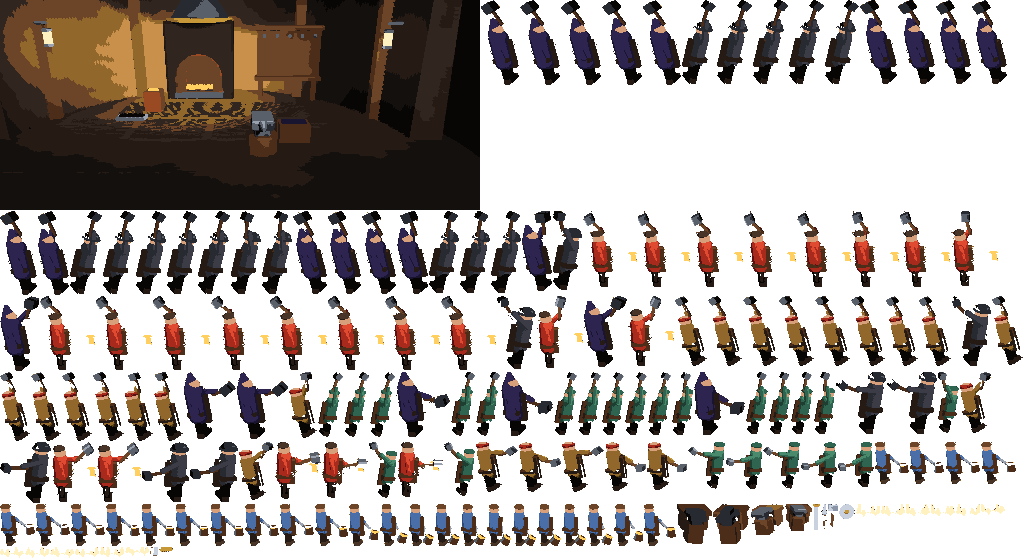
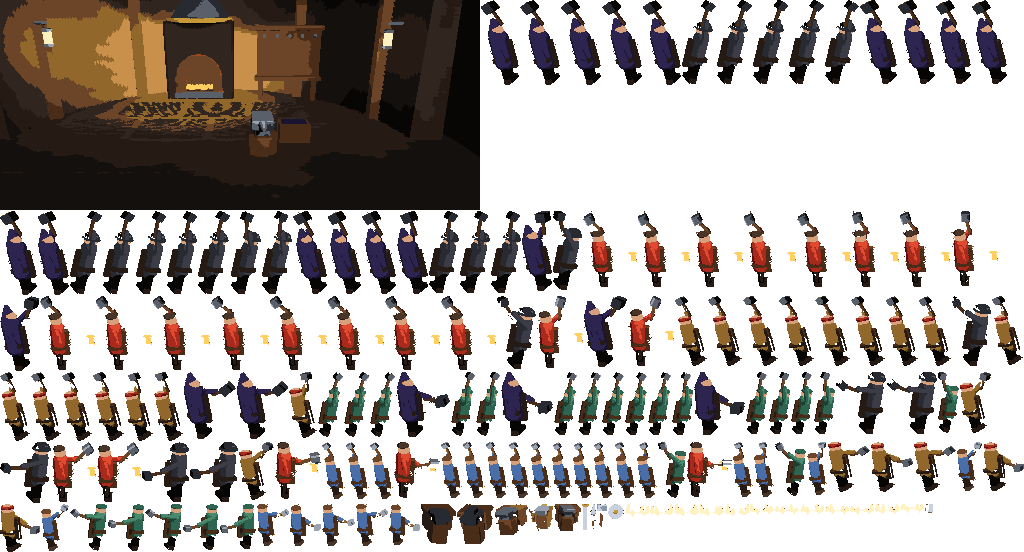
Remove ingots and the Smelter; add the Swordsmith at his spot

Changed region(s): [[0.0, 0.3696, 1.0, 1.0], [0.0938, 0.1232, 0.3125, 0.2464]]

diff --git a/index.html b/index.html
@@ -167,14 +167,14 @@ const HEROES=[
      Forging is Blacksmith Battles' minigame, and it is the hook: pick a weapon and a blank size in Folds, then strike while
      the marker crosses the glow (Perfect 2 stars, Good 1, from the 5th Perfect in a row 3, 4, 5...). A miss ends the blank
      and costs a third of your stars; Quench banks the score early. Stars set the grade. Forge heroes never forge on their
-     own: they make it easier (Blacksmith), cheaper (Smelter) or better (the smiths). */
+     own: they make it easier (the Blacksmith) or better (the smiths). There are no ingots: blanks are paid in ore. */
   {k:'smith',n:'Blacksmith',base:3000,place:'forge',noMs:true,
     what:()=>`You. Blanks hold up to ${maxFolds()} Folds (${MATCAP} in Copper). Glow ${zoneW()}% wide, marker at ${Math.round(smithSlow()*100)}% speed`,
     ms:lv=>smithMs(lv)},
-  {k:'smelter',n:'Smelter',base:15000,place:'forge',
-    what:()=>`Pours ${fmtN(ingotRate()*60)} ingots a minute. A blank uses ingots (${INGOT} ore each) before ore`,
-    ms:lv=>`Level ${nextMs(lv)}: ${['a bigger crucible','a second mould','a pouring channel','a river of bronze'][Math.min(3,msCount(lv))]}, double ingots`,
-    req:()=>lv('smith')>=5&&S.forged>=5, hint:'Blanks eat a lot of ore. Forge 5 weapons and get the Blacksmith to level 5.'},
+  {k:'swordsmith',n:'Swordsmith',base:15000,place:'forge',noMs:true,w:'sword',
+    what:()=>`Every Sword you forge gets +${3*lv('swordsmith')}% Might and Haste, locked in when it's forged`,
+    ms:lv=>`Next level: +3% more`,
+    req:()=>lv('smith')>=5, hint:'The Blacksmith learns Swords at level 5.'},
   {k:'axesmith',n:'Axesmith',base:1e5,place:'forge',noMs:true,w:'axe',
     what:()=>`Every Axe you forge gets +${3*lv('axesmith')}% Might and Vigor, locked in when it's forged`,
     ms:lv=>`Next level: +3% more`,
@@ -194,12 +194,12 @@ const HEROES=[
 ];
 const place=h=>h.place||'mine';
 const WEAP={sword:{n:'Sword',p:'Swords'},axe:{n:'Axe',p:'Axes'},spear:{n:'Spear',p:'Spears'},shield:{n:'Shield',p:'Shields'},hammer:{n:'Warhammer',p:'Warhammers'}};
-// stations: the Blacksmith level that teaches the weapon (Jonathan: Axes 25, Spears 50), its smith, and the art layer
-const STATIONS=[{lv:25,k:'axesmith',w:'axe'},{lv:50,k:'spearwright',w:'spear'},{lv:75,k:'shieldwright',w:'shield'},{lv:100,k:'hammersmith',w:'hammer'}];
+// stations: the Blacksmith level that teaches the weapon (Jonathan: Swords 5, Axes 25, Spears 50), its smith, and the art layer
+const STATIONS=[{lv:5,k:'swordsmith',w:'sword'},{lv:25,k:'axesmith',w:'axe'},{lv:50,k:'spearwright',w:'spear'},{lv:75,k:'shieldwright',w:'shield'},{lv:100,k:'hammersmith',w:'hammer'}];
 const SWORD_LV=5; // Jonathan: you can't forge anything until the Blacksmith learns Swords at level 5
-const known=()=>[...(lv('smith')>=SWORD_LV?['sword']:[]),...STATIONS.filter(st=>lv('smith')>=st.lv).map(st=>st.w)];
+const known=()=>STATIONS.filter(st=>lv('smith')>=st.lv).map(st=>st.w);
 // Folds (Jonathan's name for slams): blanks start at 3, +1 every 5 Blacksmith levels, no ceiling; Copper holds 10
-const MATCAP=10,BLANK=150,INGOT=50;
+const MATCAP=10,BLANK=150;
 const maxFolds=()=>3+Math.floor(lv('smith')/5);
 const foldLimit=()=>Math.min(MATCAP,maxFolds());
 const blankCost=n=>BLANK*Math.pow(2,n-3); // a 3-Fold Copper blank is 150 ore; every Fold doubles it (as in Blacksmith Battles)
@@ -207,8 +207,7 @@ const blankCost=n=>BLANK*Math.pow(2,n-3); // a 3-Fold Copper blank is 150 ore; e
 const SMITH_GLOW=[5,20,40],SMITH_SLOW=[10,30,50];
 const zoneW=()=>14+5*SMITH_GLOW.filter(n=>lv('smith')>=n).length;
 const smithSlow=()=>1-0.07*SMITH_SLOW.filter(n=>lv('smith')>=n).length;
-const ingotRate=()=>lv('smelter')?0.05*lv('smelter')*mult('smelter'):0; // ingots a second
-function smithMs(L){const ev=[];for(let l=L+1;l<=L+40&&!ev.length;l++){const st=STATIONS.find(s=>s.lv===l);if(l===SWORD_LV)ev.push('learns Swords');
+function smithMs(L){const ev=[];for(let l=L+1;l<=L+40&&!ev.length;l++){const st=STATIONS.find(s=>s.lv===l);
   if(l%5===0)ev.push(`+1 Fold`);if(SMITH_GLOW.includes(l))ev.push('a wider glow');if(SMITH_SLOW.includes(l))ev.push('a slower marker');if(st)ev.push(`learns ${WEAP[st.w].p}`);if(ev.length)return `Level ${l}: ${ev.join(', ')}`}return ''}
 // grades by stars, the same 20 as Blacksmith Battles
 const GR=[['Crude',0],['Fine',4],['Superior',7],['Masterwork',11],['Exalted',15],['Heroic',20],['Mythic',28],['Legendary',38],['Fabled',50],['Runebound',65],
@@ -254,12 +253,14 @@ const nightText=()=>lv('lamp')?`for ${nightHours()} h at ${nightPct()}% while yo
 const costAt=(k,l)=>Math.ceil(HK[k].base*Math.pow(1.15,l));
 function costN(k,n){let c=0,l=lv(k);for(let i=0;i<n;i++)c+=costAt(k,l+i);return c}
 
-function fresh(){return{ore:0,mined:0,taps:0,blasts:0,h:{miner:1},seen:{miner:1},t:Date.now(),lastBackup:0,forge:0,view:'mine',ingots:0,forged:0,made:{},best:{},pick:{w:'sword',n:3},v:2}}
+function fresh(){return{ore:0,mined:0,taps:0,blasts:0,h:{miner:1},seen:{miner:1},t:Date.now(),lastBackup:0,forge:0,view:'mine',forged:0,made:{},best:{},pick:{w:'sword',n:3},v:3}}
 function save(){S.t=Date.now();try{localStorage.setItem(KEY,JSON.stringify(S))}catch(e){}}
 function load(){let d=null;try{d=JSON.parse(localStorage.getItem(KEY)||'null')}catch(e){}S=Object.assign(fresh(),d||{});S.h=Object.assign({miner:1},S.h);migrate()}
 // v2 (Nov 19 evening): the first forge (auto smiths, 1M-ore swords) was replaced by the forging minigame; its forge levels and weapon counts go
 function migrate(){if((S.v||1)<2){for(const k of ['smith','smelter','axesmith','spearwright','shieldwright','hammersmith']){delete S.h[k];delete S.seen[k]}
-  delete S.wpn;delete S.work;delete S.blows;S.forge=0;S.view='mine';S.ingots=0;S.forged=0;S.made={};S.best={};S.pick={w:'sword',n:3};S.v=2}}
+  delete S.wpn;delete S.work;delete S.blows;S.forge=0;S.view='mine';S.ingots=0;S.forged=0;S.made={};S.best={};S.pick={w:'sword',n:3};S.v=2}
+  // v3: ingots and the Smelter are gone (Jonathan: ingots were a pointless second currency). Refund his levels and any ingots as ore
+  if(S.v<3){const L=S.h.smelter||0;if(L)S.ore+=15000*(Math.pow(1.15,L)-1)/0.15;S.ore+=Math.floor(S.ingots||0)*50;delete S.h.smelter;delete S.seen.smelter;delete S.ingots;S.v=3}}
 
 /* ---------- the scene: art/mine.png + art/mine.json, rendered from art/src/mine.js (see tools/) ---------- */
 const cv=$('#cv'),ctx=cv.getContext('2d');ctx.imageSmoothingEnabled=false;
@@ -283,7 +284,7 @@ const boxF=n=>{const s=fatlas.sprites[n];return[s[4],s[5],s[2],s[3]]};
 // a hero's clip player: an idle loop, and one-shot segments that return to idle. Clip lengths match art/src/mine.js
 const DUR={miner:{idle:1,strike:.12,recover:.38},pros:{idle:1,strike:.12,recover:.38},phantom:{idle:1,strike:.12,recover:.38},
   boss:{idle:1,call:.5},blast:{idle:1,duck:.6},lamp:{idle:1,reach:1},time:{idle:2,turn:.6},heap:{idle:1},
-  smith:{idle:1,strike:.12,recover:.38},axe:{idle:1,strike:.12,recover:.38},spear:{idle:1,strike:.12,recover:.38},shield:{idle:1,strike:.12,recover:.38},hammer:{idle:1,strike:.12,recover:.38},smelter:{idle:1,pour:1},fire:{idle:1}};
+  smith:{idle:1,strike:.12,recover:.38},sword:{idle:1,strike:.12,recover:.38},axe:{idle:1,strike:.12,recover:.38},spear:{idle:1,strike:.12,recover:.38},shield:{idle:1,strike:.12,recover:.38},hammer:{idle:1,strike:.12,recover:.38},fire:{idle:1}};
 class Actor{
   constructor(h,onEnd,F=false){this.h=h;this.F=F;this.seg='idle';this.t=Math.random();this.q=[];this.onEnd=onEnd||(()=>{})}
   play(seg,then=[]){this.seg=seg;this.t=0;this.q=then.slice()}
@@ -311,9 +312,9 @@ function tap(){if(S.view==='forge')return F?strike():heat();S.taps++;if(!hintGon
 const ANVIL={pop:[304,82],hit:[262,112]};
 
 let F=null,fhintGone=false;
-function heat(){if(F)return;if(!known().length){toast(`The Blacksmith learns Swords at level ${SWORD_LV}. Level him up first.`);return}const n=Math.min(S.pick.n,foldLimit()),c=blankCost(n),fromIng=Math.min(Math.floor(S.ingots),Math.floor(c/INGOT)),ore=c-fromIng*INGOT;
-  if(S.ore<ore){toast(`A ${n}-Fold blank needs ${fmtN(ore)} ore${fromIng?` (after ${fmtN(fromIng)} ingots)`:''}. Dig in the Mine.`);return}
-  S.ingots-=fromIng;S.ore-=ore;F={w:S.pick.w,n,res:[],pos:0,dir:1,speed:62,zl:0,last:0,done:false,msg:'Strike in the glow',msgT:0};placeZone();
+function heat(){if(F)return;if(!known().length){toast(`The Blacksmith learns Swords at level ${SWORD_LV}. Level him up first.`);return}const n=Math.min(S.pick.n,foldLimit()),ore=blankCost(n);
+  if(S.ore<ore){toast(`A ${n}-Fold blank needs ${fmtN(ore)} ore. Dig in the Mine.`);return}
+  S.ore-=ore;F={w:S.pick.w,n,res:[],pos:0,dir:1,speed:62,zl:0,last:0,done:false,msg:'Strike in the glow',msgT:0};placeZone();
   if(!fhintGone){fhintGone=true;$('#taphint').style.opacity=0}refreshForge()}
 function placeZone(){F.zl=8+Math.random()*(84-zoneW())}
 function forgeTick(dt){if(!F||F.done)return;F.pos+=F.dir*F.speed*smithSlow()*dt;if(F.pos>100){F.pos=100;F.dir=-1}if(F.pos<0){F.pos=0;F.dir=1}const m=$('#marker');if(m)m.style.left=F.pos+'%'}
@@ -325,7 +326,7 @@ function drawTrack(){const on=S.forge&&S.view==='forge';$('#ftrack').style.displ
   const n=F?F.n:Math.min(S.pick.n,foldLimit()),res=F?F.res:[];let st=0,h='';
   for(let i=0;i<n;i++){const r=res[i];if(r==='P')st++;else st=0;h+=`<span class="pip ${r==='P'?'p':r==='G'?'g':r?'m':''}${F&&i===res.length&&!F.done?' now':''}">${r==='P'?perfectStars(st):r==='G'?'1':r?'✕':i+1}</span>`}
   const row=$('#fpips');row.innerHTML=h;row.style.transform=`translateX(${-Math.max(0,res.length-3)*38}px)`;
-  const ks=known(),c=blankCost(n),ing=Math.min(Math.floor(S.ingots),Math.floor(c/INGOT)),ore=c-ing*INGOT;
+  const ks=known(),ore=blankCost(n);
   $('#tlabel').textContent=F?'':!ks.length?`The Blacksmith learns Swords at level ${SWORD_LV}`:S.ore<ore?`Need ${fmtN(ore)} ore. Dig in the Mine.`:`Tap to heat a ${n}-Fold ${WEAP[S.pick.w].n} blank (${fmtN(ore)} ore)`;
   const sc=F?scoreOf(F.res):0;$('#callout').innerHTML=F?`<span>${F.msg}</span><b>★${sc} ${GR[gradeOf(sc)].n}</b>`:`<span>${lastResult}</span>`}
 function strike(){if(!F||F.done)return;const now=performance.now(),w=zoneW(),p=F.pos;let r;
@@ -349,11 +350,7 @@ function finishForge(){const raw=scoreOf(F.res),missed=F.res.some(r=>r==='M'||r=
   const st=STATIONS.find(x=>x.w===w);if(st&&lv(st.k))A[w].play('strike',['recover','strike','recover']);
   F=null;save();refreshForge();refreshCards()}
 function popAt(at,txt,col){if(S.view==='forge')pops.push({x:at[0],y:at[1],txt,t:0,col,F:true})}
-// the Smelter pours every 3 s (a one second clip), adding what his rate made since the last pour
-const fac={smelt:0,pourT:0};
-function forgeLogic(dt){if(!S.forge)return;forgeTick(dt);
-  if(lv('smelter')){fac.smelt+=ingotRate()*dt;fac.pourT+=dt;if(fac.pourT>=3&&A.smelter.seg==='idle'){fac.pourT=0;A.smelter.play('pour')}}}
-function smelterPoured(){const n=fac.smelt;fac.smelt=0;if(n<=0)return;S.ingots+=n;const b=boxF('smelter-idle-0');popAt([b[0]+b[2]/2,b[1]-2],'+'+fmtN(n)+' '+(n>=2?'ingots':'ingot'),'#ffd27a')}
+function forgeLogic(dt){if(S.forge)forgeTick(dt)}
 function openForge(){S.forge=1;S.h.smith=S.h.smith||1;S.seen.smith=1;save();buildCards();setPlaces();toast('With the Foreman keeping the Miner swinging, you can go to the forge. Tap Forge.')}
 
 // automatic heroes run on their own clocks so the ore arrives in visible trips, strikes, calls and blasts
@@ -437,8 +434,6 @@ function drawForge(dt){
   const nx=HEROES.find(h=>place(h)==='forge'&&!lv(h.k)),isNext=k=>!!(nx&&nx.k===k&&S.seen[k]);
   for(const st of STATIONS){if(lv('smith')<st.lv)continue;sprF('st-'+st.w);const b=boxF(st.w+'-idle-0');
     if(lv(st.k))A[st.w].draw();else waitingSpot([b[0]+b[2]/2,b[1]+b[3]],isNext(st.k))}
-  const ni=Math.min(9,Math.floor(S.ingots));for(let i=0;i<ni;i++)sprF('ingot',(i%3)*6+Math.floor(i/3)*3,-Math.floor(i/3)*3);
-  if(lv('smelter')){A.smelter.draw();if(A.smelter.seg==='pour')glow(148,112,12,'255,180,80',.45)}else{const b=boxF('smelter-idle-0');waitingSpot([b[0]+b[2]/2,b[1]+b[3]],isNext('smelter'))}
   A.smith.draw();
   if(F)glow(ANVIL.hit[0],ANVIL.hit[1]+2,10+2*Math.sin(clock*6),'255,120,40',.45); // the hot blank
   if(A.smith.seg==='strike'||(A.smith.seg==='recover'&&A.smith.t<.08))glow(ANVIL.hit[0],ANVIL.hit[1],14,'255,200,120',.5);
@@ -446,7 +441,7 @@ function drawForge(dt){
 }
 const hexRgb=h=>[1,3,5].map(i=>parseInt(h.slice(i,i+2),16)).join(',');
 /* ---------- hero cards ---------- */
-const PIC={smith:['smith-idle-0'],smelter:['smelter-idle-0'],axesmith:['axe-idle-0'],spearwright:['spear-idle-0'],shieldwright:['shield-idle-0'],hammersmith:['hammer-idle-0'],miner:['miner-idle-0',0,0,34],carter:['cart-out-16',0,0,30],phantom:['phantom-strike-4',0,0,40],prospector:['pros-idle-0',0,0,40],foreman:['boss-idle-0',0,0,26],blaster:['blast-idle-0',0,0,40],lamp:['lamp-idle-0',0,0,24],time:['time-idle-0',0,0,26]};
+const PIC={smith:['smith-idle-0'],swordsmith:['sword-idle-0'],axesmith:['axe-idle-0'],spearwright:['spear-idle-0'],shieldwright:['shield-idle-0'],hammersmith:['hammer-idle-0'],miner:['miner-idle-0',0,0,34],carter:['cart-out-16',0,0,30],phantom:['phantom-strike-4',0,0,40],prospector:['pros-idle-0',0,0,40],foreman:['boss-idle-0',0,0,26],blaster:['blast-idle-0',0,0,40],lamp:['lamp-idle-0',0,0,24],time:['time-idle-0',0,0,26]};
 function portrait(h){const c=document.createElement('canvas');c.width=44;c.height=56;const x=c.getContext('2d');x.imageSmoothingEnabled=false;
   const F=place(h)==='forge',[n]=PIC[h.k],s=(F?fatlas:atlas).sprites[n];const k=Math.min(44/s[2],56/s[3],1.4),w=Math.round(s[2]*k),hh=Math.round(s[3]*k);x.drawImage(F?fimg:img,s[0],s[1],s[2],s[3],Math.round((44-w)/2),56-hh,w,hh);return c}
 function buildCards(){const box=$('#cards');box.innerHTML='';for(const h of HEROES){if(place(h)!==(S.view||'mine'))continue;const el=document.createElement('div');el.className='card';el.dataset.k=h.k;
@@ -483,13 +478,13 @@ function refreshForge(){drawTrack();const on=S.forge&&S.view==='forge';$('#fpane
   if(!known().length){$('#wpick').innerHTML='<span class="note">No recipes yet. The Blacksmith learns Swords at level '+SWORD_LV+'.</span>'}
   const ks=known();if(!ks.includes(S.pick.w))S.pick.w='sword';S.pick.n=Math.max(1,Math.min(S.pick.n,foldLimit()));
   if(ks.length)$('#wpick').innerHTML=ks.map(w=>`<button class="b sm${w===S.pick.w?' on':''}" data-w="${w}" ${F?'disabled':''}>${WEAP[w].n}</button>`).join('');
-  const n=S.pick.n,c=blankCost(n),ing=Math.min(Math.floor(S.ingots),Math.floor(c/INGOT)),ore=c-ing*INGOT;
+  const n=S.pick.n,ore=blankCost(n);
   $('#fsize').textContent=`${n} Fold${n>1?'s':''}`;$('#fminus').disabled=!!F||n<=1;$('#fplus').disabled=!!F||n>=foldLimit();
-  $('#fcost').textContent=`${fmtN(ore)} ore${ing?` + ${fmtN(ing)} ingots`:''} · best ★${maxStars(n)} ${GR[gradeOf(maxStars(n))].n}`;
+  $('#fcost').textContent=`${fmtN(ore)} ore · best ★${maxStars(n)} ${GR[gradeOf(maxStars(n))].n}`;
   $('#fheat').style.display=F?'none':'';$('#fheat').disabled=S.ore<ore||!ks.length;$('#fheat').textContent=S.ore<ore?`Need ${fmtN(ore)} ore`:'Heat blank';
   $('#fquench').style.display=F&&!F.done&&F.res.length?'':'none';
   const b=S.best[S.pick.w];$('#fbest').textContent=F?'Tap the bar or the scene to strike':b?`Best ${WEAP[S.pick.w].n}: ${GR[b.g].n} ★${b.stars}`:'';
-  $('#fstock').textContent=`${S.forged} forged${S.ingots>=1?` · ${fmtN(Math.floor(S.ingots))} ingots`:''}`}
+  $('#fstock').textContent=`${S.forged} forged`}
 $('#fpanel').addEventListener('click',e=>{const t=e.target.closest('button');if(!t)return;
   if(t.dataset.w&&!F){S.pick.w=t.dataset.w}else if(t.id==='fminus'&&!F)S.pick.n--;else if(t.id==='fplus'&&!F)S.pick.n++;else if(t.id==='fheat')heat();else if(t.id==='fquench')quench();refreshForge();save()});
 function setPlaces(){$('#places').classList.toggle('on',!!S.forge);$('#res').classList.toggle('three',!!S.forge);$('#wchip').style.display=S.forge?'':'none';
@@ -521,7 +516,6 @@ Promise.all([fetch('art/mine.json').then(r=>r.json()),pic('art/mine.png'),fetch(
   A.phantom=new Actor('phantom',e=>{if(e==='strike'){gain(phantomRate()*PHANTOM_EVERY,SPOT.phantom.pop,'#b8fff0');burst(SPOT.phantom.hit,6,['#8affe0','#d88038','#f0b070'],.7)}});
   A.boss=new Actor('boss');A.blast=new Actor('blast');A.lamp=new Actor('lamp');A.time=new Actor('time');
   A.smith=new Actor('smith',null,true);A.fire=new Actor('fire',null,true);
-  A.smelter=new Actor('smelter',e=>{if(e==='pour')smelterPoured()},true);
   for(const st of STATIONS)A[st.w]=new Actor(st.w,null,true);
   if(S.forged)fhintGone=true;setPlaces();
   awayGrant((Date.now()-(S.t||Date.now()))/1000);S.seen.miner=1;if(S.taps>=3){hintGone=true;$('#taphint').style.opacity=0}

diff --git a/art/src/forge.js b/art/src/forge.js
@@ -1,13 +1,11 @@
 // Ore Heroes: the forge, in the same ink style, lights and camera as the mine (art/src/mine.js).
 // A cut-away stone hall: a great furnace in the back wall, the Blacksmith's anvil in the middle, a weapon rack on the back wall,
-// the Smelter's crucible and ingot mould, and four little smithing stations (axe, spear, shield, warhammer) that open one by one.
+// and five little smithing stations (sword, axe, spear, shield, warhammer) that open one by one.
 // OH_LAYER picks what is drawn (none = the empty hall, the background):
 //   smith            you, the Blacksmith, at the anvil (clip: ready 0-1, strike 1-1.12, recover 1.12-1.5)
-//   smelter          the Smelter at his crucible (clip: idle 0-1, pour 1-2)
-//   st-axe|st-spear|st-shield|st-hammer   a station's bench and little anvil (drawn once the Blacksmith learns that weapon)
-//   axe|spear|shield|hammer               the smith who works that station (same clip as the Blacksmith)
+//   st-sword|st-axe|st-spear|st-shield|st-hammer   a station's bench and little anvil (drawn once the Blacksmith learns that weapon)
+//   sword|axe|spear|shield|hammer               the smith who works that station (same clip as the Blacksmith)
 //   w-sword|w-axe|w-spear|w-shield|w-hammer  one finished weapon hanging in its column of the rack
-//   ingot            one ingot lying in front of the mould
 //   fire             the furnace flames (clip: a 0-1 loop)
 module.exports = ({ makeBuilder, makeSculpt, KIT: K }) => {
   const PAL = [
@@ -126,12 +124,6 @@ module.exports = ({ makeBuilder, makeSculpt, KIT: K }) => {
     const COLS = { sword: -0.76, axe: -0.38, spear: 0, shield: 0.38, hammer: 0.76 };
     for (const c of Object.values(COLS)) S.box([RX + c, 2.1, RZ + 0.08], [0.03, 0.03, 0.06], IRON, { res: 0.01 });
 
-    // ---- the Smelter's spot: a crucible on a stand by the furnace and an ingot mould on the floor ----
-    const SX = -2.35, SZ = -2.0; // where he stands
-    S.box([SX + 0.55, 0.3, SZ - 0.2], [0.22, 0.3, 0.22], BRICK, { res: 0.03 }); // the crucible's little hearth
-    for (let i = 0; i < 3; i++) S.ball([SX + 0.48 + i * 0.07, 0.62, SZ - 0.2], 0.06, HOT, { res: 0.012 });
-    S.box([SX + 0.15, 0.06, SZ + 0.65], [0.36, 0.06, 0.16], IRON, { res: 0.015 }); // the mould
-    S.box([SX + 0.15, 0.1, SZ + 0.65], [0.3, 0.04, 0.1], DARK, { neg: true });
     S.bake();
 
     // =================== layers ===================
@@ -225,26 +217,9 @@ module.exports = ({ makeBuilder, makeSculpt, KIT: K }) => {
       pose = swingPose(1);
     }
 
-    // ---- the Smelter: blue shirt and a leather cap, tipping a crucible of molten metal into the mould ----
-    if (layer === 'smelter') {
-      const P = person(facing(SX, SZ, 1), { coat: { r: [42, 43, 44] }, apron: { r: [7, 8] } });
-      S.ball(P(0, 1.26, 0), [0.11, 0.06, 0.11], { r: [8, 9] }, { tag: 'body', res: 0.01 });
-      // the crucible in long tongs: both held out in front, over the mould
-      const C = P(-0.05, 0.62, 0.62);
-      S.lathe([C[0], C[1] - 0.12, C[2]], 0.22, t => 0.11 - 0.03 * t, { r: [30, 31, 18] }, { tag: 'cru', res: 0.01 });
-      S.lathe([C[0], C[1] + 0.07, C[2]], 0.03, 0.085, HOT, { tag: 'cru', res: 0.008 });
-      S.tube([P(0.1, 0.85, 0.25), [C[0], C[1], C[2]]], 0.015, 0.015, IRON, { tag: 'cru', res: 0.008 });
-      S.tube([P(0.12, 1.0, 0), P(0.1, 0.85, 0.25)], 0.035, 0.035, { r: [42, 43, 44] }, { tag: 'cru', res: 0.012 });
-      parts.body = { pivot: P(0, 0.2, 0), slices: 3 };
-      parts.cru = { pivot: P(0.12, 1.0, 0), parent: 'body', slices: 2 };
-      // clip: idle 0-1 (holds it), pour 1-2 (tips it toward the mould and back)
-      pose = (t, dt, pup) => { const b = Math.sin(t * Math.PI * 2); let p = 0;
-        if (t >= 1) { const k = Math.min(1, t - 1); p = k < 0.3 ? ease(k / 0.3) : k < 0.7 ? 1 : 1 - ease((k - 0.7) / 0.3); }
-        pup.pose.body = { rot: [0, 0, -p * 6 + b * 1] }; pup.pose.cru = { rot: [0, 0, -p * 28 + b * 1.5] }; };
-    }
-
-    // ---- the four stations and their smiths ----
+    // ---- the five stations and their smiths (the Swordsmith stands where the Smelter used to) ----
     const ST = {
+      sword:  { x: -2.35, z: -2.0, dir: 1, coat: { r: [42, 43, 44] }, hat: 'leather' },
       axe:    { x: 3.55, z: -0.9, dir: -1, coat: { r: [22, 23, 24] }, hat: 'cap' },
       spear:  { x: -3.65, z: -0.25, dir: 1, coat: { r: [45, 46, 47] }, hat: 'band' },
       shield: { x: 3.35, z: 1.05, dir: -1, coat: { r: [48, 49, 50] }, hat: 'helm' },
@@ -262,6 +237,7 @@ module.exports = ({ makeBuilder, makeSculpt, KIT: K }) => {
       }
       if (layer === k) {
         person(P, { coat: st.coat, apron: { r: [7, 8] }, wide: st.wide });
+        if (st.hat === 'leather') S.ball(P(0, 1.26, 0), [0.11, 0.06, 0.11], { r: [8, 9] }, { tag: 'body', res: 0.01 });
         if (st.hat === 'cap') S.ball(P(0, 1.25, 0), [0.11, 0.05, 0.11], { r: [22, 23] }, { tag: 'body', res: 0.01 });
         if (st.hat === 'band') S.lathe(P(0, 1.2, 0), 0.04, 0.105, { r: [39, 40] }, { tag: 'body', res: 0.008 });
         if (st.hat === 'helm') { S.ball(P(0, 1.24, 0), [0.115, 0.08, 0.115], IRON, { tag: 'body', res: 0.01 }); S.lathe(P(0, 1.2, 0), 0.015, 0.14, IRON, { tag: 'body', res: 0.008 }); }
@@ -271,12 +247,8 @@ module.exports = ({ makeBuilder, makeSculpt, KIT: K }) => {
       }
     }
 
-    // ---- a finished weapon in its rack column, or an ingot by the mould ----
+    // ---- a finished weapon in its rack column ----
     if (layer.startsWith('w-')) { const k = layer.slice(2); weapon(k, [RX + COLS[k], 2.08, RZ + 0.12], {}); }
-    if (layer === 'ingot') {
-      const I = [SX + 0.75, 0.05, SZ + 0.85];
-      S.box(I, [0.13, 0.045, 0.06], BRASS, { res: 0.008, rd: 0.015 });
-    }
 
     // ---- the furnace flames ----
     const FL = [];

diff --git a/tools/render.js b/tools/render.js
@@ -40,13 +40,12 @@ if (WHICH === 'mine') {
   for (const dir of ['out', 'in'])
     CART_Z.forEach((z, i) => { const n = `cart-${dir}-${i}`; layout.cart[dir].push(n); jobs.push({ name: n, env: { OH_LAYER: 'cart', OH_DIR: dir, OH_Z: String(z) }, t: (i % 4) * 0.25 }); });
 } else {
-  // art/src/forge.js: the Blacksmith and the four smiths swing like the mine's picks; the Smelter pours; the fire loops
+  // art/src/forge.js: the Blacksmith and the five smiths swing like the mine's picks; the fire loops
   clips({
-    smith: SWING, axe: SWING, spear: SWING, shield: SWING, hammer: SWING,
-    smelter: { idle: steps(0, 1, 12), pour: steps(1, 2, 14) },
+    smith: SWING, sword: SWING, axe: SWING, spear: SWING, shield: SWING, hammer: SWING,
     fire: { idle: steps(0, 1, 12) }
   });
-  for (const k of ['st-axe', 'st-spear', 'st-shield', 'st-hammer', 'w-sword', 'w-axe', 'w-spear', 'w-shield', 'w-hammer', 'ingot'])
+  for (const k of ['st-sword', 'st-axe', 'st-spear', 'st-shield', 'st-hammer', 'w-sword', 'w-axe', 'w-spear', 'w-shield', 'w-hammer'])
     jobs.push({ name: k, env: { OH_LAYER: k }, t: 0 });
 }
 fs.mkdirSync(OUT, { recursive: true });

diff --git a/sw.js b/sw.js
@@ -1,6 +1,6 @@
 // Offline support for Ore Heroes: pages are fetched fresh when online (so updates arrive) and served from cache when offline.
 // Its own cache name, separate from Blacksmith Battles.
-const C='ore-heroes-v10';
+const C='ore-heroes-v11';
 self.addEventListener('install',e=>{e.waitUntil(caches.open(C).then(c=>c.addAll(['./','index.html','art/mine.png','art/mine.json','art/forge.png','art/forge.json','manifest.webmanifest','icon-192.png','icon-512.png','apple-touch-icon.png'])));self.skipWaiting()});
 self.addEventListener('activate',e=>e.waitUntil(caches.keys().then(ks=>Promise.all(ks.filter(k=>k.startsWith('ore-heroes-')&&k!==C).map(k=>caches.delete(k)))).then(()=>self.clients.claim())));
 self.addEventListener('fetch',e=>{const r=e.request;if(r.method!=='GET')return;

diff --git a/README.md b/README.md
@@ -20,7 +20,7 @@ Levels cost ore (base x 1.15 per level). Levels 10, 25, 50, 100 and every 50 aft
 Hiring the Foreman opens the forge (he keeps the Miner swinging while you smith); switch with the Mine / Forge buttons. Forging is Blacksmith Battles' minigame: pick a weapon and a blank size in Folds (a 3-Fold Copper blank is 150 ore, each Fold doubles it), heat it, and strike while the marker crosses the glow. Perfect is 2 stars, Good 1, and from the 5th Perfect in a row each is worth one more. A miss ends the blank and costs a third of your stars; Quench banks the score early. Stars set the grade (Crude, Fine, Superior, Masterwork, Exalted... 20 grades). Your best weapon of each kind hangs on the rack.
 
 - **Blacksmith** (you): +1 Fold every 5 levels (Copper holds 10); levels 5/20/40 widen the glow and 10/30/50 slow the marker; Axes at 25, Spears at 50, Shields at 75, Warhammers at 100
-- **Smelter**: pours ingots (50 ore each) that blanks use before ore
+- **Swordsmith** (Blacksmith 5): every Sword you forge gets +3% Might and Haste per level, locked in. Blanks are paid in ore only (no ingots)
 - **Axesmith, Spearwright, Shieldwright, Hammersmith**: +3% to their weapon's two signature stats per level, locked in when you forge it; they finish your weapon at their station
 
 The game keeps its own save (`ore-heroes-v1`) and offline cache, fully separate from Blacksmith Battles.
